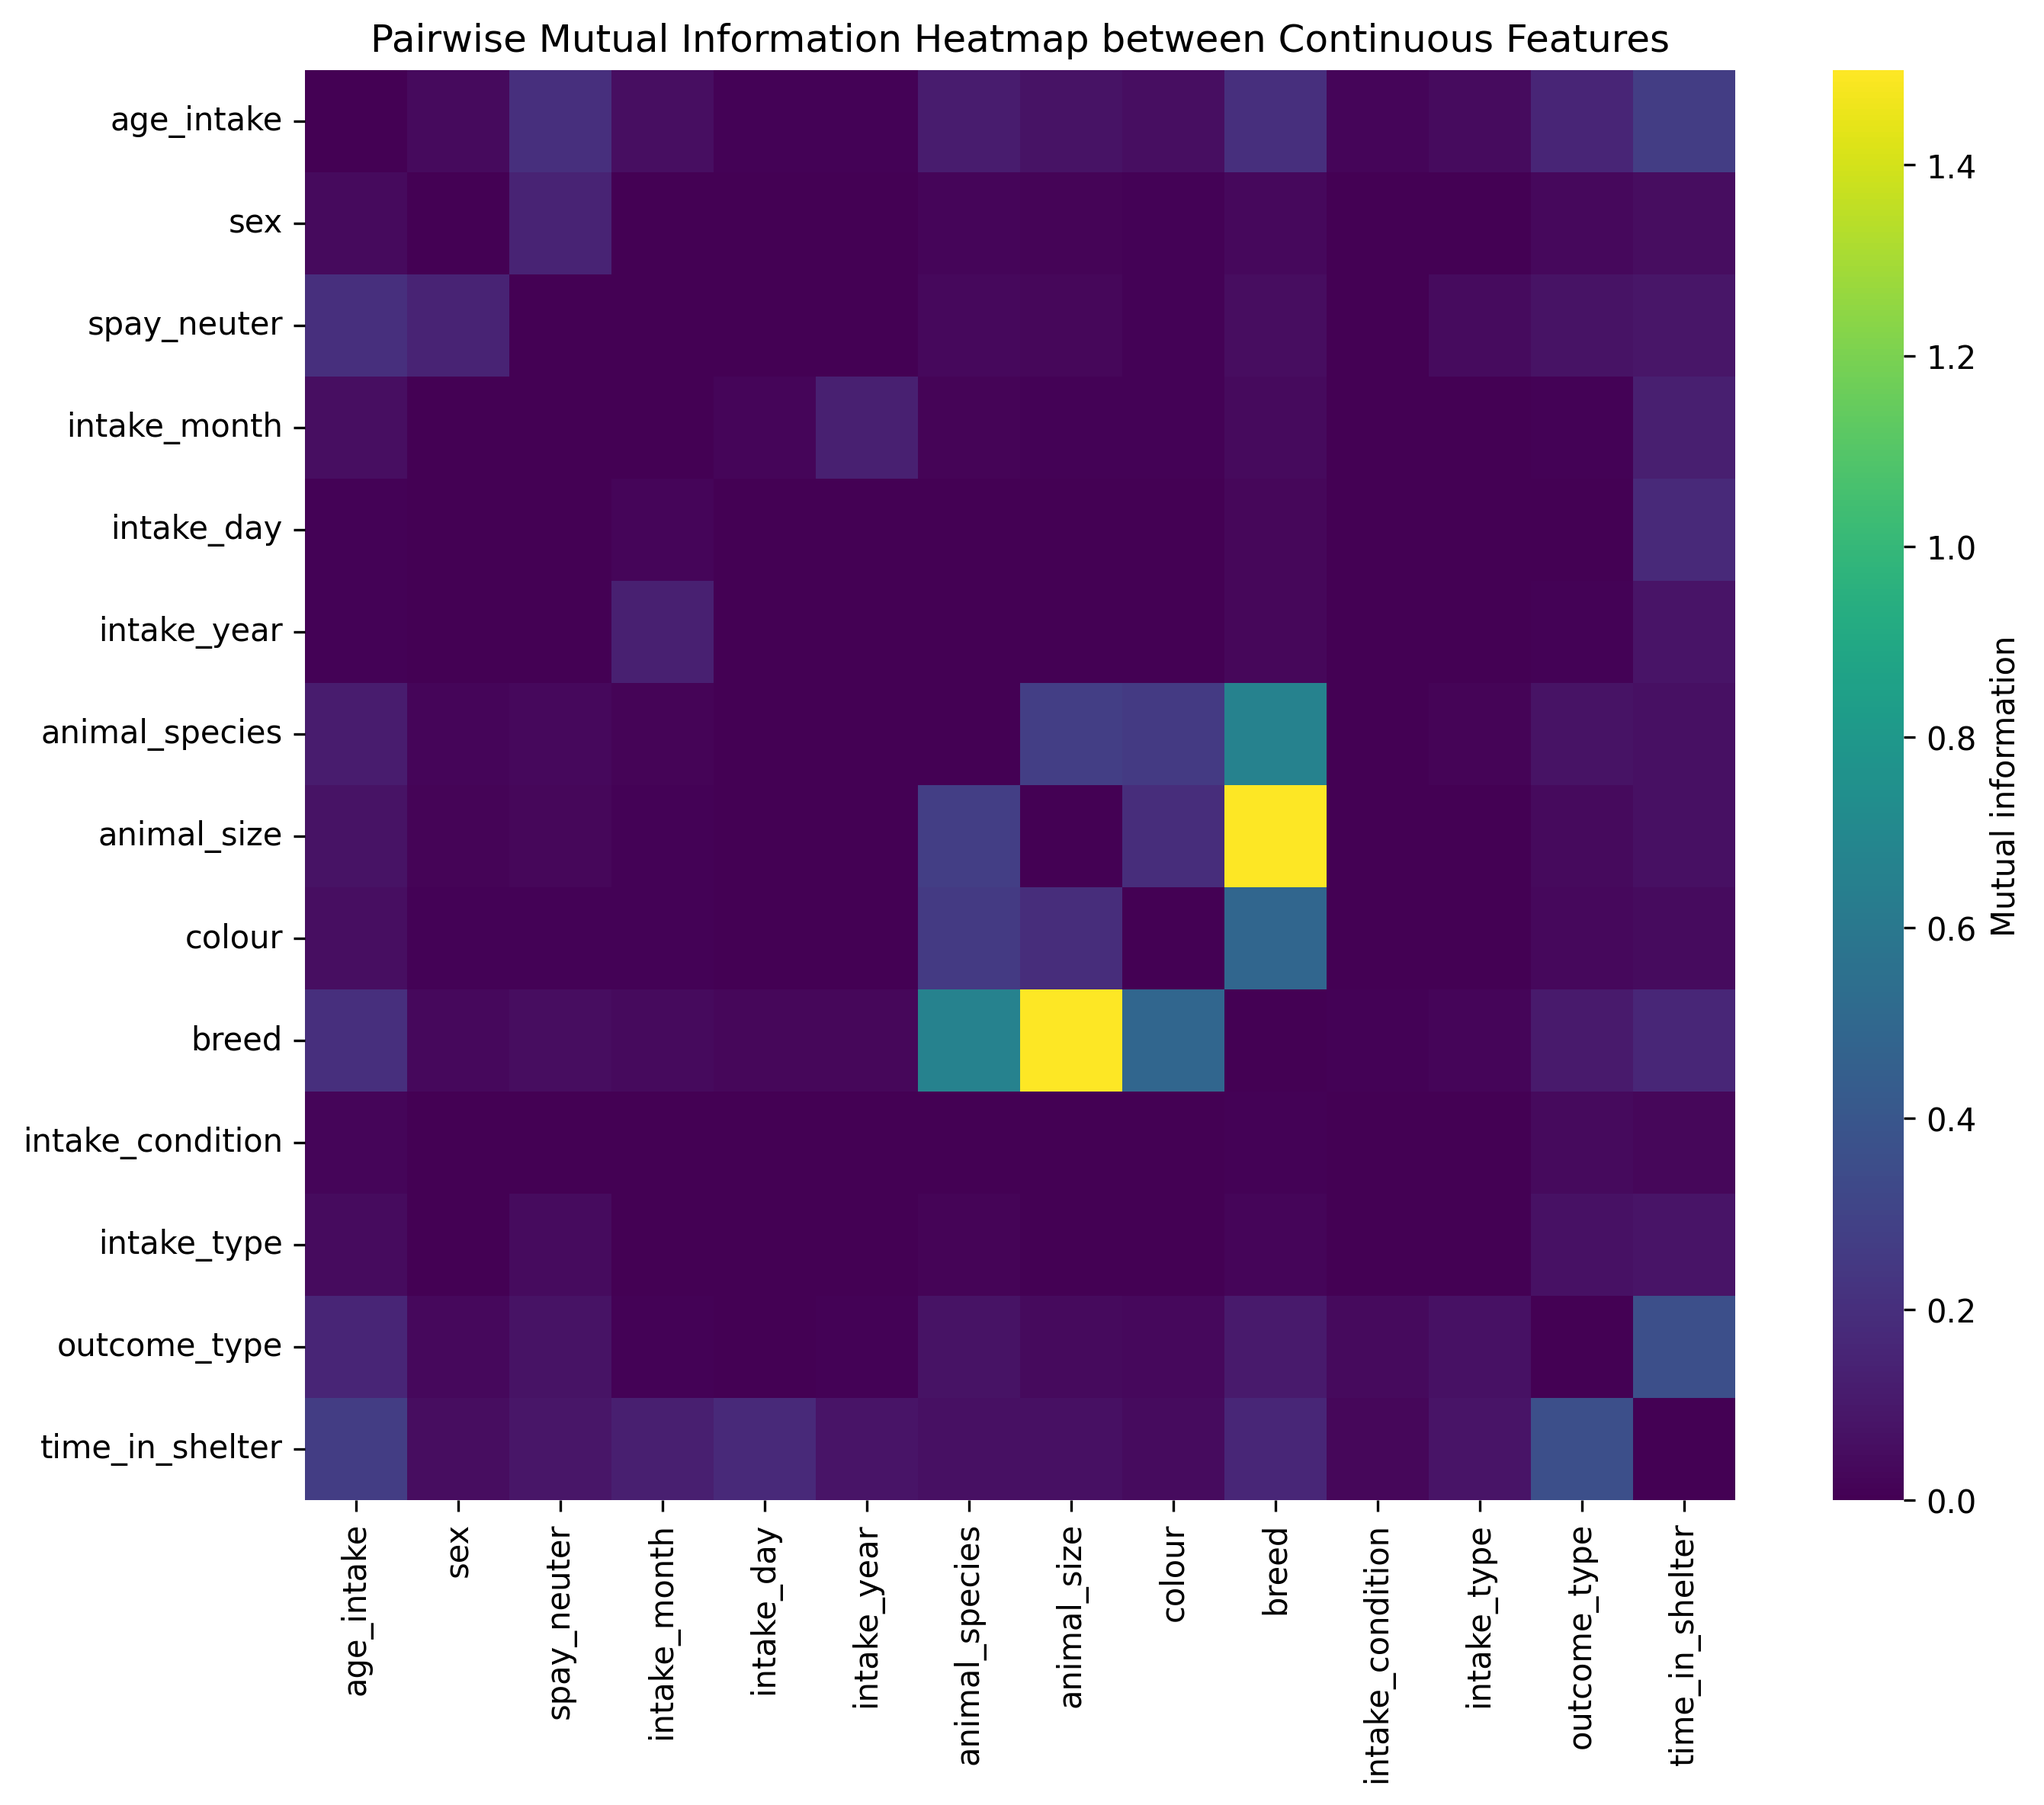
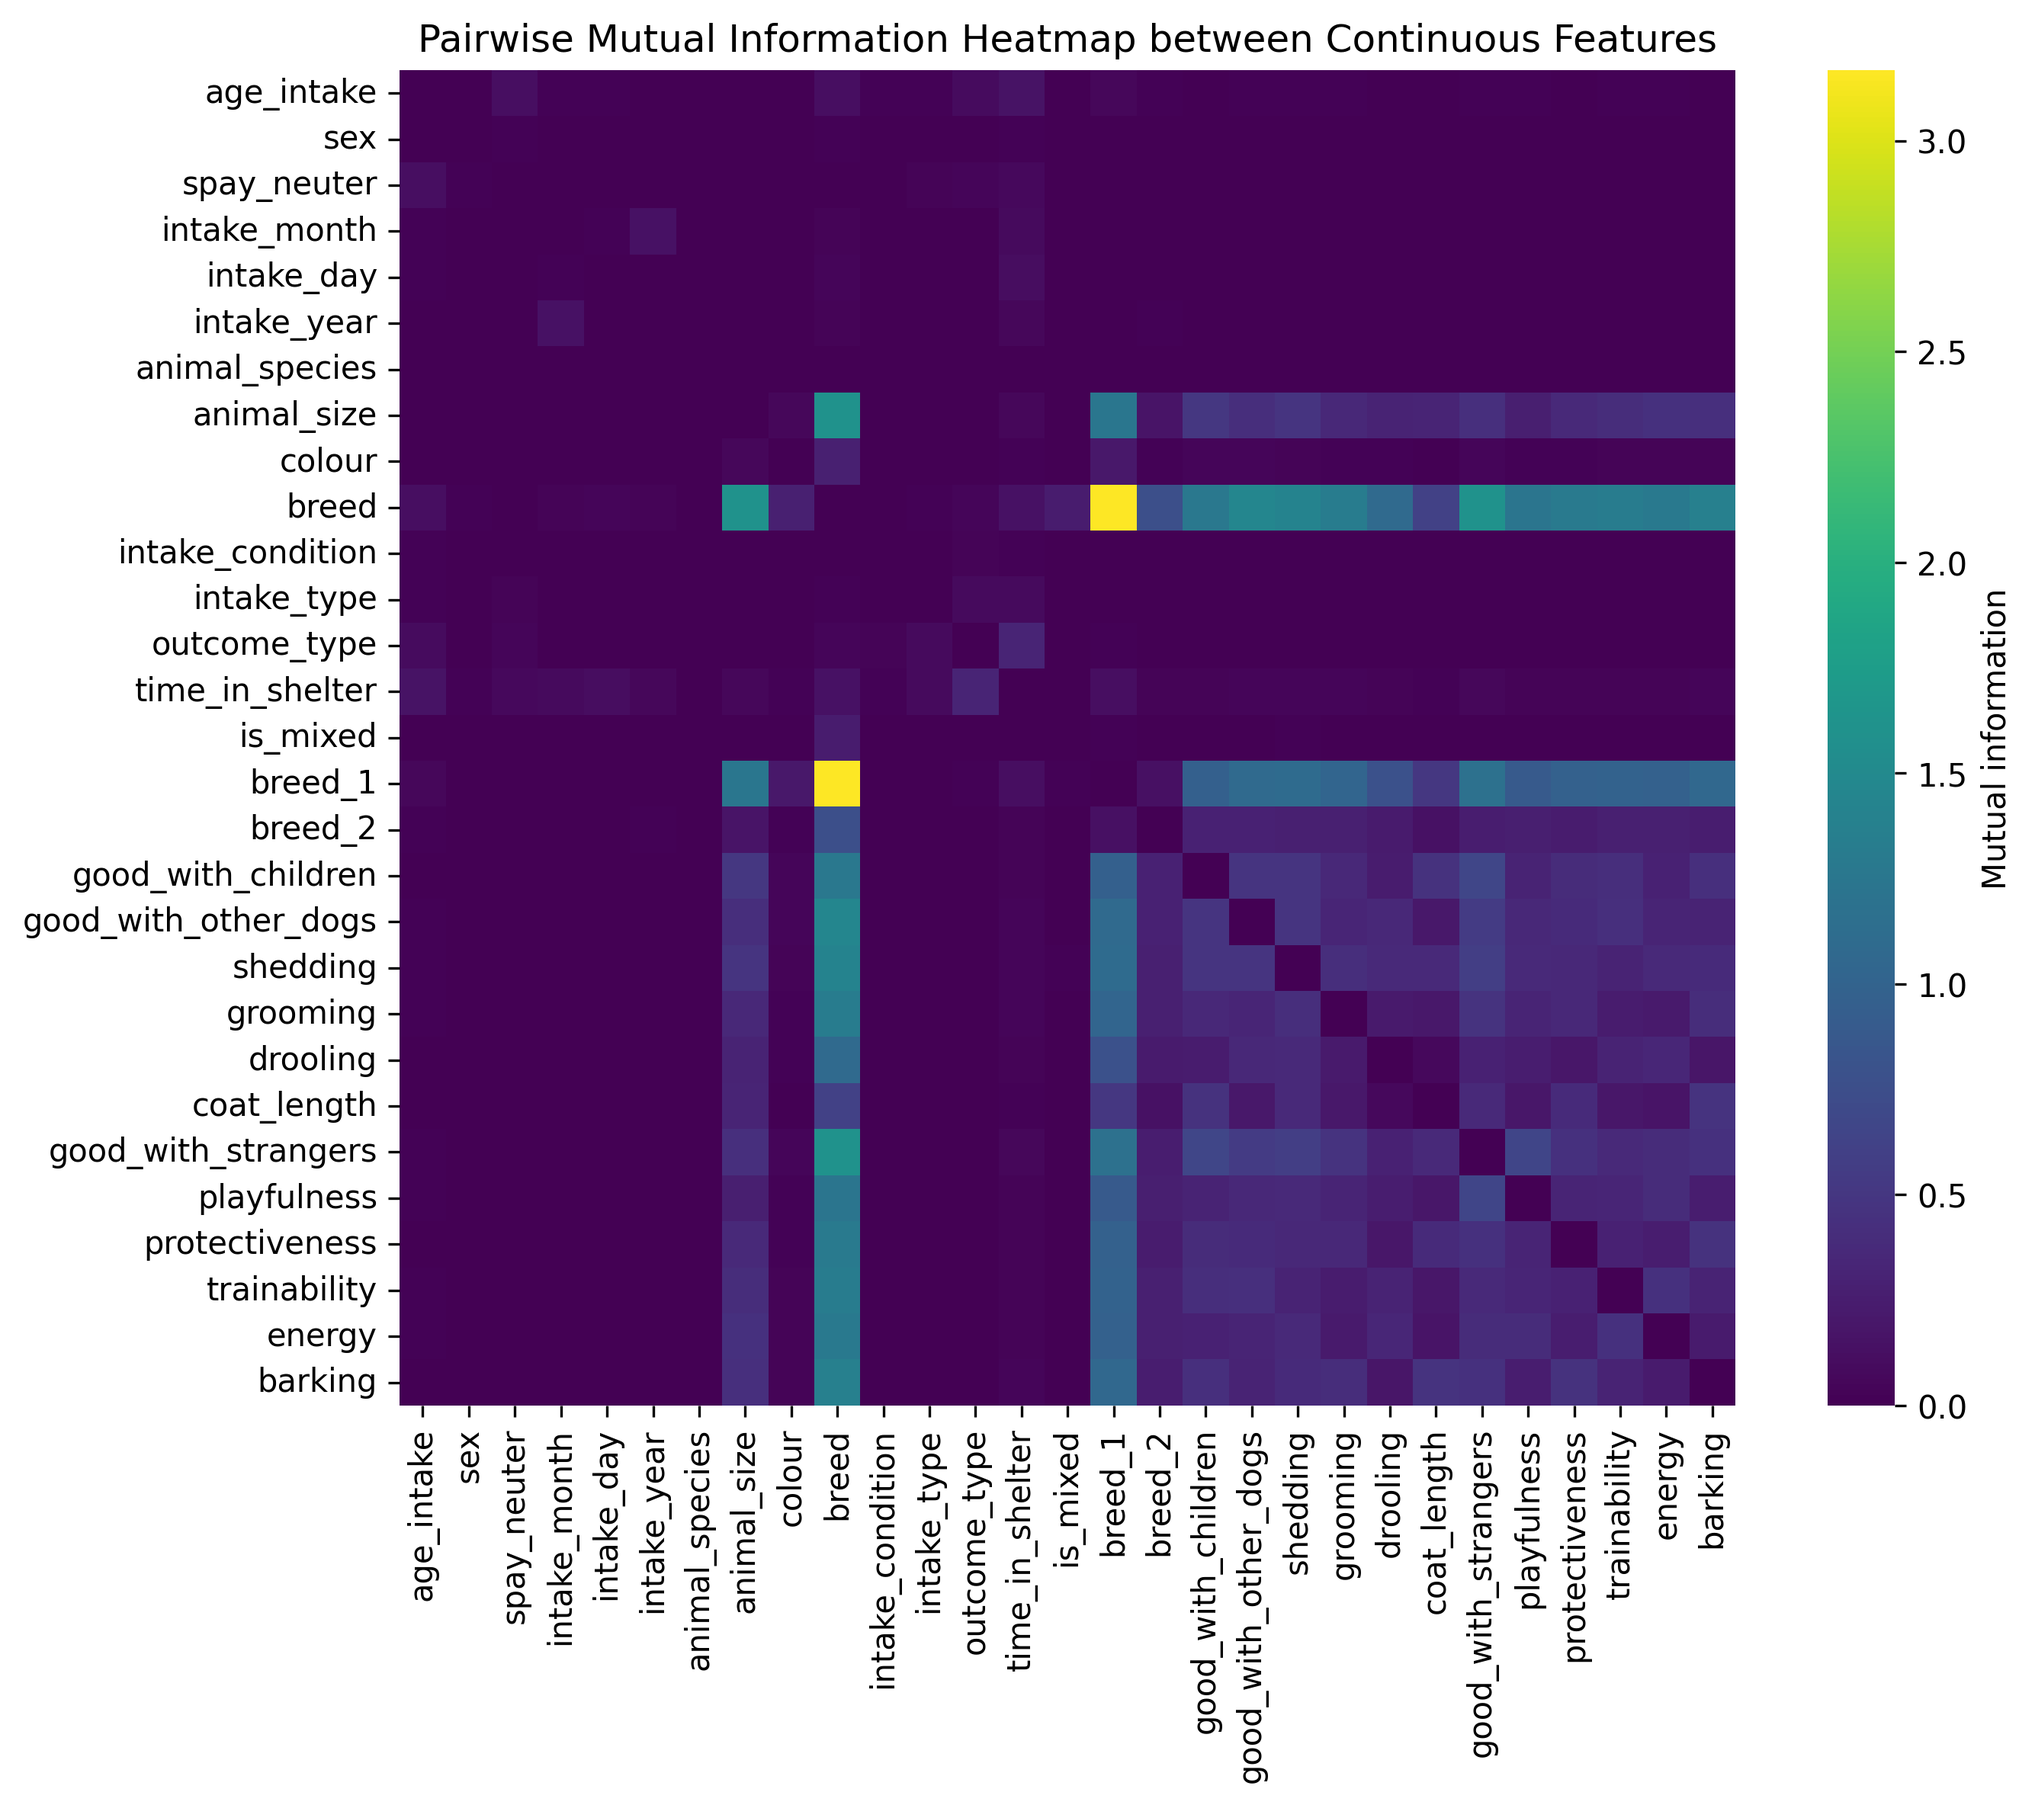
aac dog breed heatmap

diff --git a/source/aac_cleaning.py b/source/aac_cleaning.py
@@ -226,7 +226,7 @@ def fill_values(df_kaggle):
     
     kaggle_feature_cols = [c for c in df_kaggle.columns if c != 'Name']
 
-    pure_mask = df['breed_2'] == 'None'
+    pure_mask = df['breed_2'].isna() | (df['breed_2'] == 'None')
 
     # Pure breeds: merge directly on breed_1
     df_pure = df[pure_mask].merge(
@@ -253,7 +253,7 @@ def fill_values(df_kaggle):
 def heatmap(df):
 
     df_plot = df.copy()
-
+    '''
     # Select interpretable features  (drop IDs, raw datetimes, string age columns, features with many unique values)
     heatmap_cols = [
         "age_intake",
@@ -272,8 +272,11 @@ def heatmap(df):
         "time_in_shelter",
         ]
     df_heatmap = df[heatmap_cols].dropna()
+    '''
 
-    mi_df = mutual_info_regression_matrix(df_heatmap, filename="figures/aac_cleaned_heatmap.png")
+    #mi_df = mutual_info_regression_matrix(df_heatmap, filename="figures/aac_cleaned_heatmap.png")
+    mi_df = mutual_info_regression_matrix(df, filename="figures/aac_cleaned_heatmap.png")
+
 
     return mi_df
 
@@ -301,9 +304,8 @@ def main():
     df_kaggle = clean_kaggle()
     final_df_aac_dogs = fill_values(df_kaggle)
     final_df_aac_dogs.to_csv("datasets/final_df_aac_dogs.csv", index = False)
-
-
-    heatmap(df)
+    #print(final_df_aac_dogs.head(10))
+    heatmap(final_df_aac_dogs)
     #print(df.columns.tolist())
     #print(df['breed'].unique())
     #print(df["animal_size"].value_counts())
